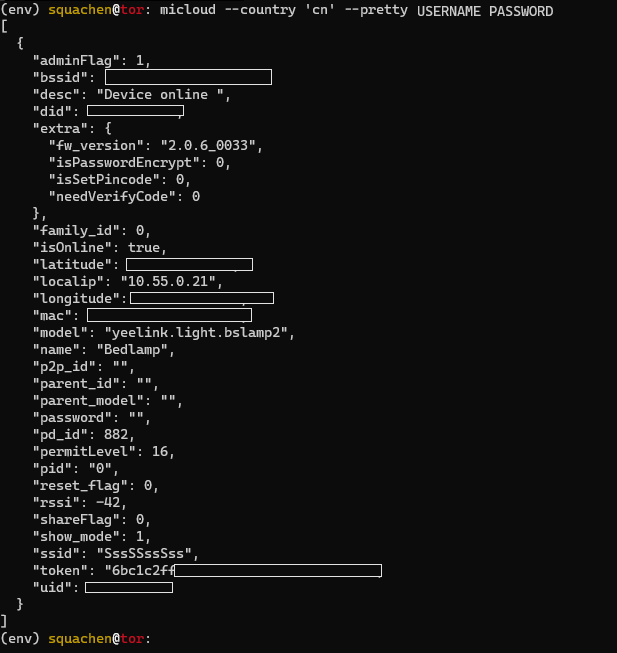
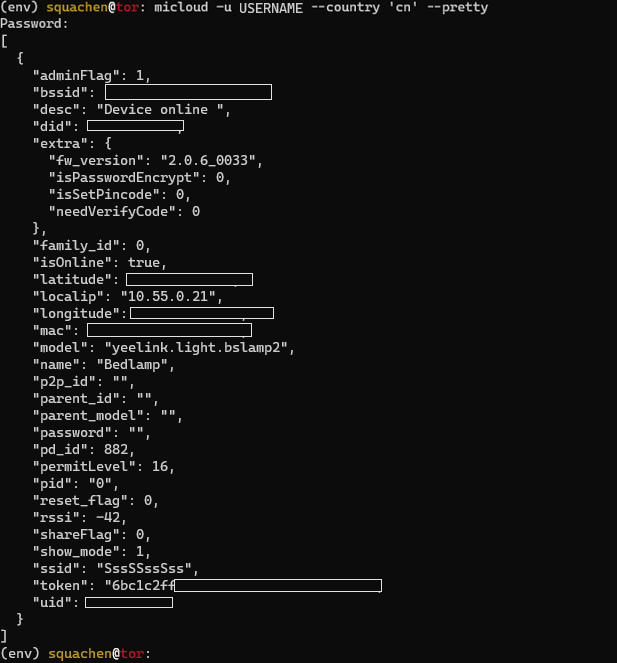
Fixed cli password prompts.

diff --git a/micloud/cli.py b/micloud/cli.py
@@ -3,10 +3,10 @@ import json
 from micloud.micloud import MiCloud
 
 @click.command()
-@click.option('--country', default='de', help='Language code of the server to query. Default: "de"')
+@click.option('--username', '-u', prompt=True, help='Your Xiaomi username.')
+@click.option('--password', '-p', prompt=True, hide_input=True, confirmation_prompt=False)
+@click.option('--country', '-c', default='de', help='Language code of the server to query. Default: "de"')
 @click.option('--pretty', is_flag=True, help='Pretty print json output.')
-@click.argument('username')
-@click.argument('password')
 def get_devices(username, password, country, pretty):
     mc = MiCloud(username, password)
     mc.login()

diff --git a/setup.py b/setup.py
@@ -7,13 +7,13 @@ setup(
     name = 'micloud',
     packages = ['micloud'],
     include_package_data=True,
-    version = '0.2',
+    version = '0.3',
     license='MIT',
     description = 'Xiaomi cloud connect library',
     author = 'Sammy Svensson',
     author_email = 'sammy@ssvensson.se',
     url = 'https://github.com/squachen/micloud',
-    download_url = 'https://github.com/Squachen/micloud/archive/v_0.2.tar.gz',
+    download_url = 'https://github.com/Squachen/micloud/archive/v_0.3.tar.gz',
     install_requires=[
         'requests',
         'tzlocal',

diff --git a/README.md b/README.md
@@ -45,12 +45,13 @@ $ pip install micloud
 You can use micloud in your project or directly from the terminal.
 #### In terminal:
 ```
-Usage: micloud [OPTIONS] USERNAME PASSWORD
+Usage: micloud [OPTIONS]
 
 Options:
-  --country TEXT  Language code of the server to query. Default: "de"
-  --pretty        Pretty print json output.
-  --help          Show this message and exit.
+  -u, --username TEXT  Your Xiaomi username.
+  -c, --country TEXT   Language code of the server to query. Default: "de"
+  --pretty             Pretty print json output.
+  --help               Show this message and exit.
 ```
 <img src="https://raw.githubusercontent.com/Squachen/micloud/master/docs/cli_example1.png" width="500">
 
